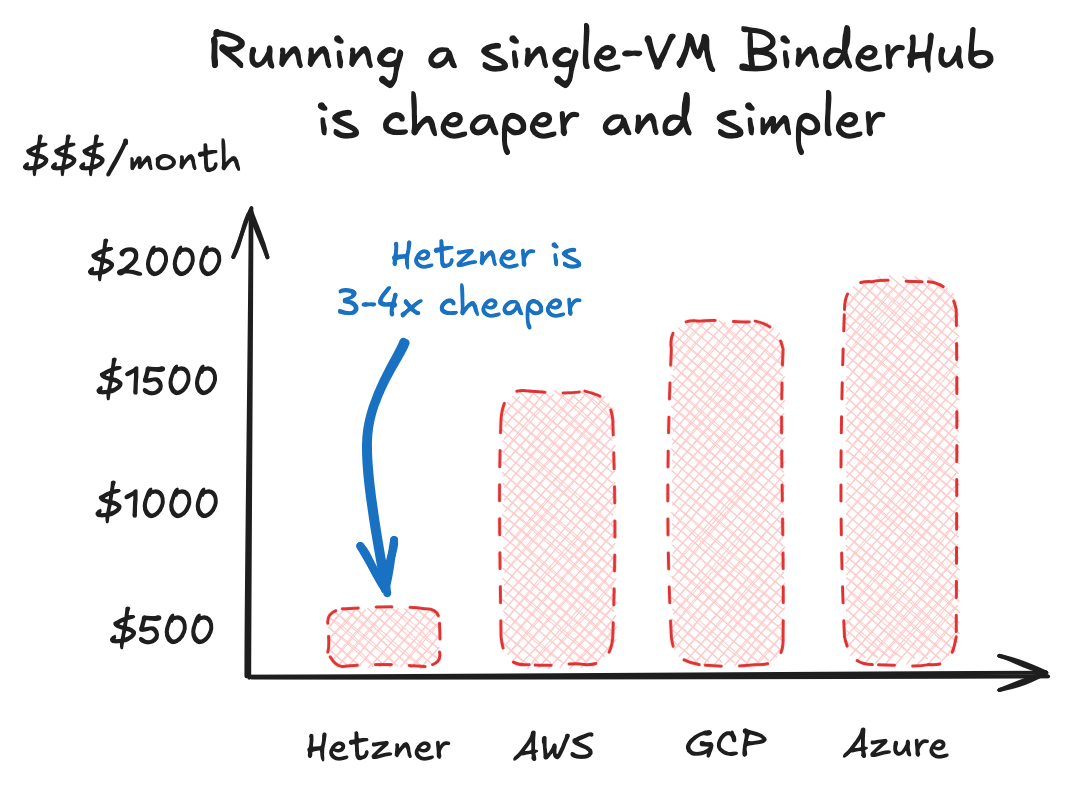
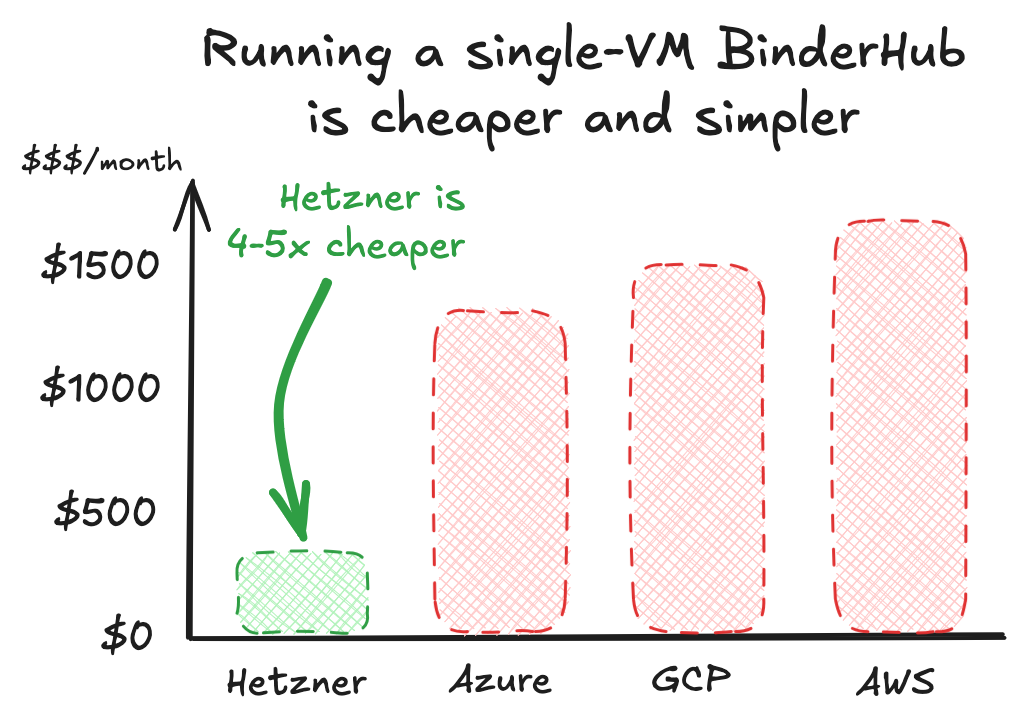
Update image for pricing

Changed region(s): [[0.0, 0.1513, 1.0, 0.9684], [0.1875, 0.0303, 0.9375, 0.2118]]

diff --git a/content/blog/2025/binder-singlenode/index.md b/content/blog/2025/binder-singlenode/index.md
@@ -1,6 +1,6 @@
 ---
 title: "2i2c joins the mybinder.org federation with a cheaper and faster way to deploy Binderhub"
-date: "2025-01-28"
+date: "2025-01-29"
 authors: ["Yuvi Panda", "Chris Holdgraf"]
 tags: [open source]
 categories: [impact]
@@ -48,29 +48,14 @@ Because of these two things, we've learned that we can run a BinderHub instance 
 
 Last week, we [deployed 2i2c.mybinder.org](https://github.com/jupyterhub/mybinder.org-deploy/pull/3169), a single-node Kubernetes instance on [Hetzner](https://hetzner.com/cloud) cloud using [K3s](https://k3s.io/). This will run on a single node VM, with a Kubernetes instance that is entirely managed by us, and with managed object storage from Hetzner. Compared to other cloud providers, it is **around 5x cheaper per month**.
 
-{{< figure src="featured.png" caption="Comparison of rough monthly costs across different cloud providers for similar VM instances. These are rough estimates based on cloud provider pricing pages for an on-demand VM with around 190GB RAM. Pricing pages: [Hetzner Cloud](https://www.hetzner.com/cloud), [Google Cloud Platform](https://cloud.google.com/compute/vm-instance-pricing), [Amazon Web Services](https://aws.amazon.com/ec2/pricing/on-demand/), [Microsoft Azure](https://azure.microsoft.com/en-us/pricing/details/virtual-machines/linux/#pricing)." >}}
+{{< figure src="featured.png" caption="Comparison of rough monthly costs across different cloud providers for similar VM instances. These are rough estimates based on cloud provider pricing pages for an on-demand VM with around 190GB RAM. Pricing pages: [Hetzner Cloud](https://www.hetzner.com/cloud) ~$300, [Microsoft Azure](https://azure.com/e/da6294b08dfa49639f74caad1630bbe4) ~$1,300, [Google Cloud Platform](https://cloud.google.com/products/calculator?hl=en&dl=CjhDaVJrWlRBeVpEUmpNQzAwTVRrMkxUUmtNalV0T0RnNU5pMHpaV1EyWlRnMFpHSXpPVE1RQVE9PRAIGiRDRTQ3QTYwQy1DNUM5LTQ3QkQtQTM3MS05MjBCQjU1QjNGRjg) ~$1,500, [Amazon Web Services](https://calculator.aws/#/estimate?id=a3bddb8bdbfa2058b941b669e408141e7fd18da4) ~$1,600." >}}
 
-<!-- Data for the figure above: 
+<!-- Machines for the figure above: 
 
-  Hetzner
-    https://www.hetzner.com/cloud
-    CCX63
-    $320/mo
-  Amazon Web Services
-    https://aws.amazon.com/ec2/pricing/on-demand/
-    https://calculator.aws/#/createCalculator/ec2-enhancement
-    m8g.12xlarge
-    $1500
-  Google Cloud Platform
-    https://cloud.google.com/products/calculator?hl=en&dl=CjhDaVEzWlRkbU1tVTNaaTFtTWpJNExUUmxObVV0T0dFME5TMHlObVJrTmpsall6RmtPR0VRQVE9PRAIGiRGRjUzNTJEQi1EODI4LTQ0RTYtOEM3MC0wMkNFNUZDQ0RGOUQ
-    n2-standard-48
-    $1700
-  Microsoft Azure
-    https://azure.microsoft.com/en-us/pricing/details/virtual-machines/linux/#pricing
-    https://azure.microsoft.com/en-us/pricing/calculator/
-    D48ads v5
-    $1,800
-
+  Hetzner: CCX63
+  Amazon Web Services: m8g.12xlarge
+  Google Cloud Platform: n2-standard-48
+  Microsoft Azure: D48as v5
 -->
 
 Running a single-node Kubernetes instance will be a cheap and effective way to handle a lot of `mybinder.org`'s capacity needs. Because it's a single node cluster, there is no auto-scaling (one reason it is so cheap), which reduces a lot of the complexity we'll have to manage. These are acceptable tradeoffs for a service like `mybinder.org`, which runs entirely ephemeral sessions with very limited resources and no promises about uptime, persistence, etc.
